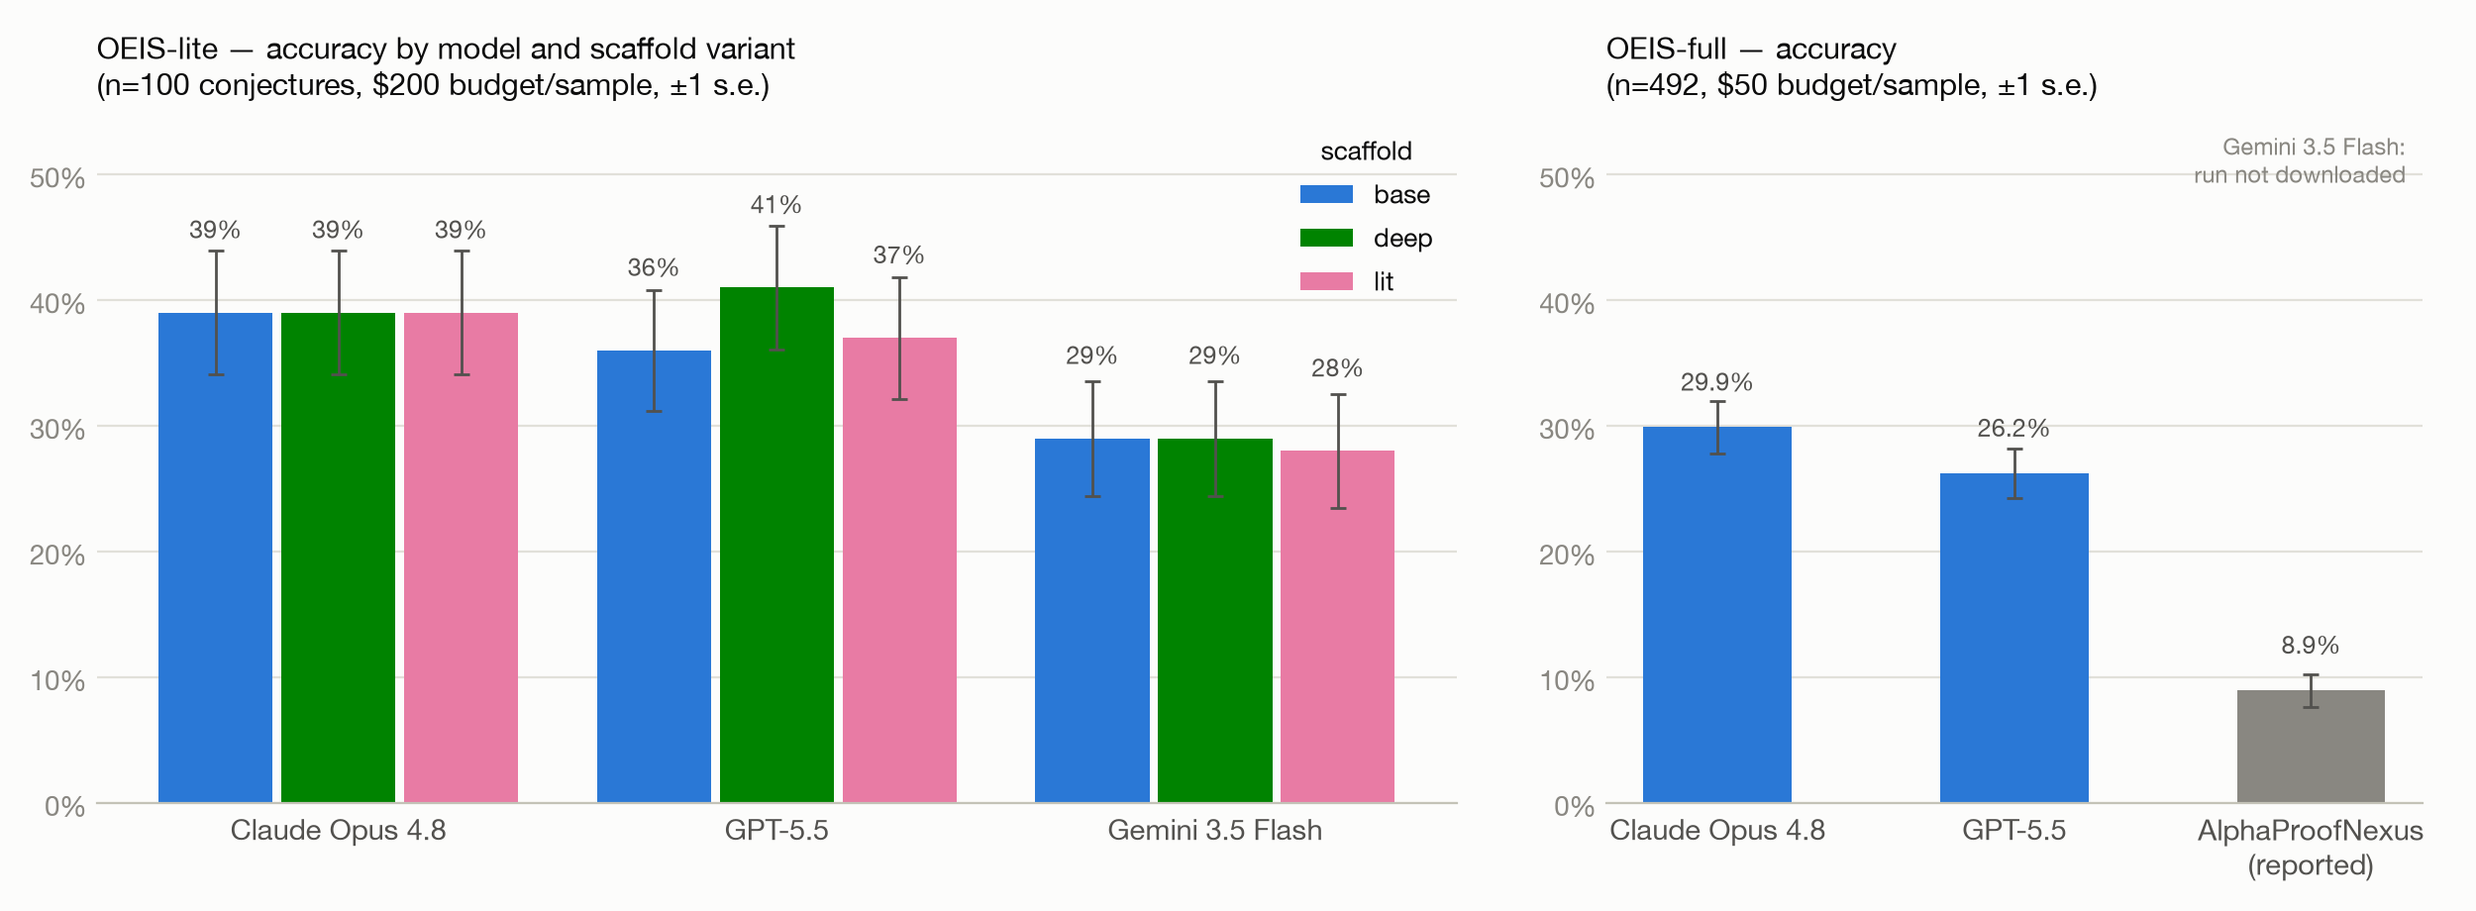
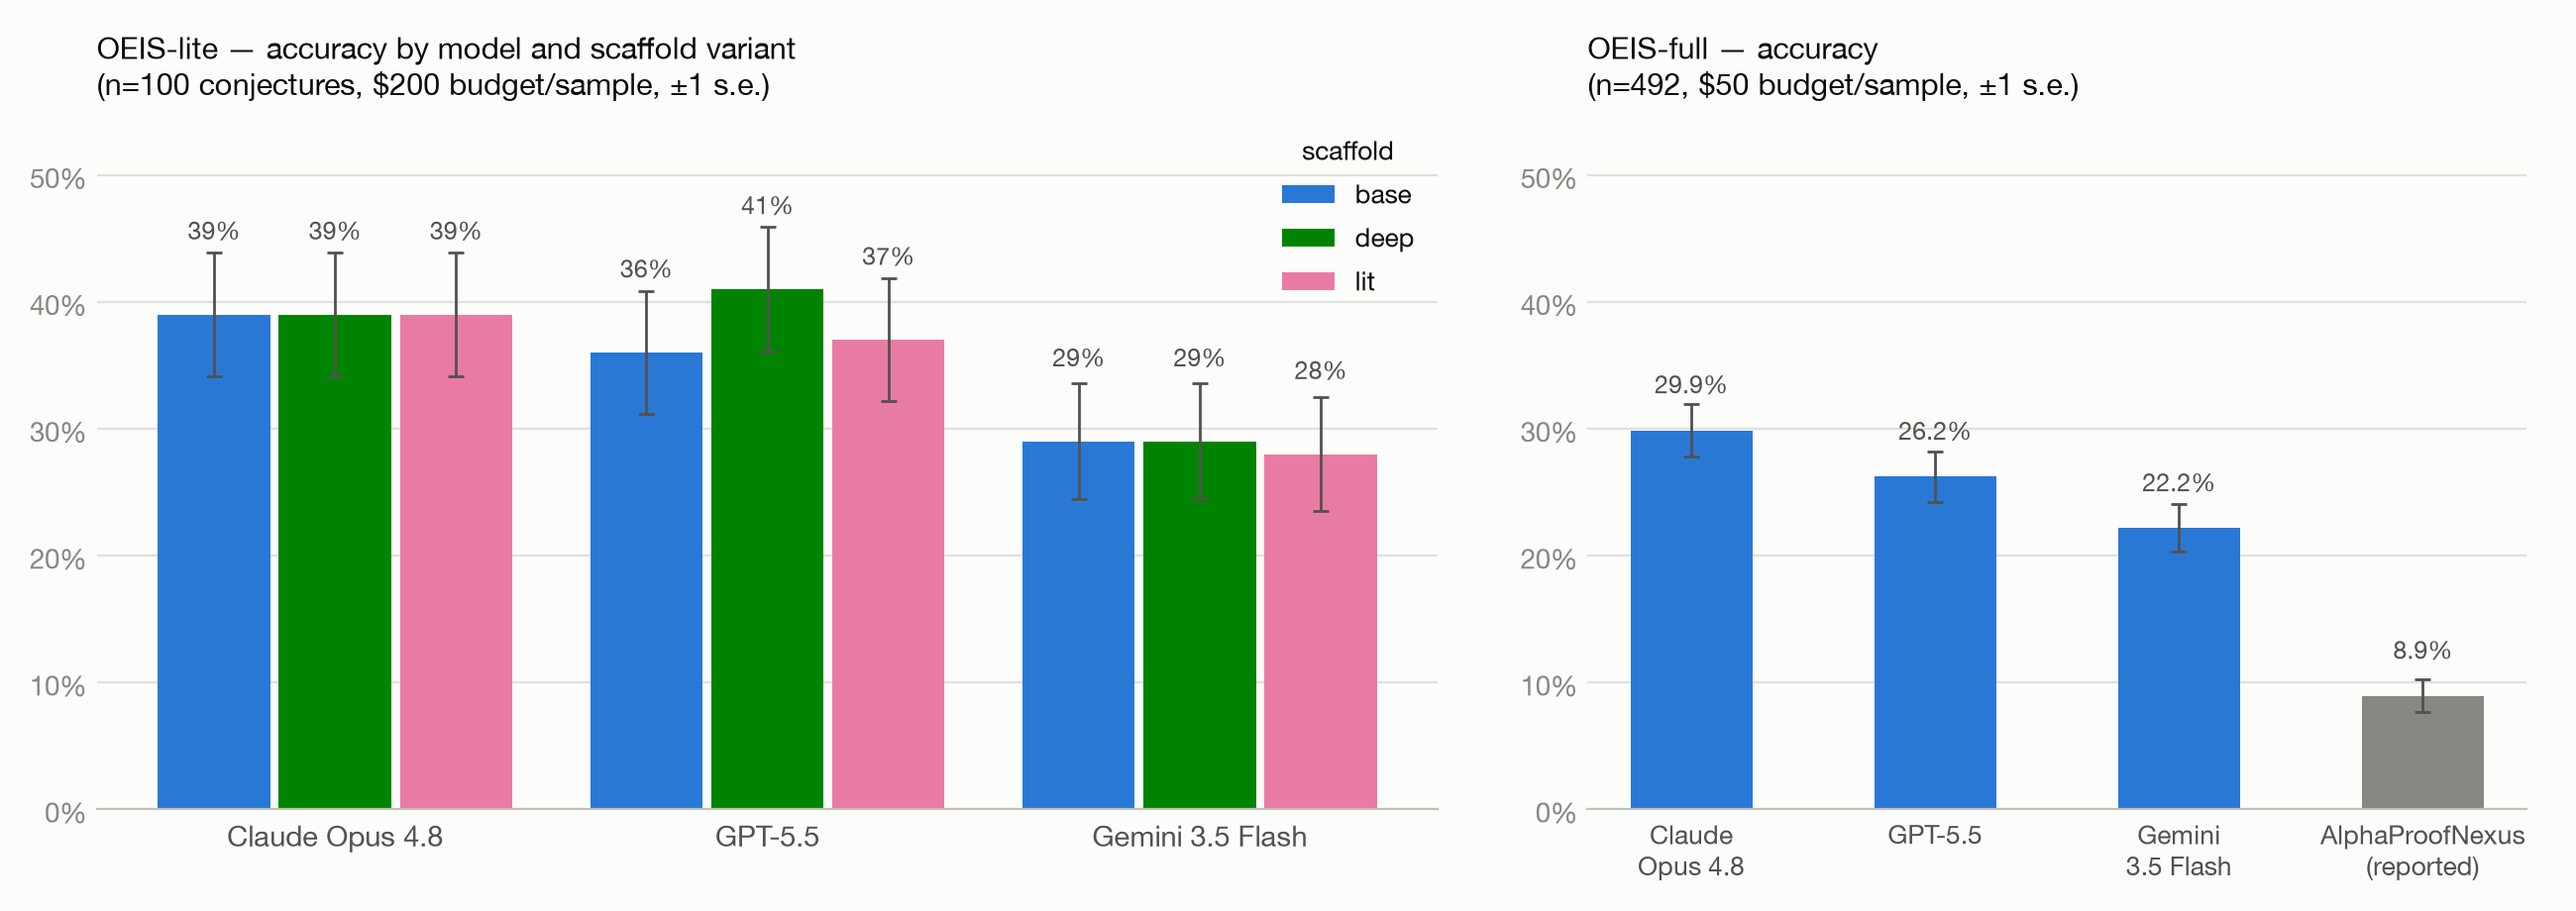
Add sample-level plots; include completed Gemini full run

diff --git a/plots/make_sample_plots.py b/plots/make_sample_plots.py
@@ -1,0 +1,269 @@
+"""Sample-level plots from per-sample scores.json / info.json in logs.
+
+Only runs with a top-level scores.json are included (a missing one means the
+download is incomplete). Rerun after new runs finish downloading.
+"""
+
+import json
+import re
+from collections import Counter, defaultdict
+from pathlib import Path
+
+import matplotlib.pyplot as plt
+from matplotlib import rcParams
+from matplotlib.patches import Rectangle
+
+LOGS = Path("logs")
+OUT = Path("plots")
+OUT.mkdir(exist_ok=True)
+
+MODEL_LABELS = {"ant": "Claude Opus 4.8", "oai": "GPT-5.5", "gdm": "Gemini 3.5 Flash"}
+PROVIDERS = ["ant", "oai", "gdm"]
+VARIANTS = ["base", "deep", "lit"]
+
+# palette (dataviz reference, light mode)
+SERIES = {"ant": "#2a78d6", "oai": "#008300", "gdm": "#e87ba4"}
+INK = "#0b0b0b"
+INK2 = "#52514e"
+MUTED = "#898781"
+GRID = "#e1e0d9"
+BASELINE = "#c3c2b7"
+SURFACE = "#fcfcfb"
+NEUTRAL = "#f0efec"
+
+rcParams.update({
+    "font.family": ["Helvetica Neue", "Arial", "DejaVu Sans"],
+    "figure.facecolor": SURFACE,
+    "axes.facecolor": SURFACE,
+    "savefig.facecolor": SURFACE,
+    "text.color": INK,
+    "axes.edgecolor": BASELINE,
+    "xtick.color": INK2,
+    "ytick.color": INK2,
+})
+
+# --- collect ---------------------------------------------------------------
+def parse(eval_set):
+    m = re.match(r"oeis-(full|lite)-(\d+)usd-(?:(deep|lit)-)?(ant|gdm|oai)-", eval_set)
+    task, budget, variant, provider = m.groups()
+    return task, int(budget), variant or "base", provider
+
+samples = defaultdict(dict)  # run key -> sample name -> record
+runs = {}                    # run key -> (task, budget, variant, provider)
+for top in sorted(LOGS.glob("*/*_plaintext/scores.json")):
+    run_dir = top.parent
+    key = parse(run_dir.parent.name)
+    (scorer,) = json.loads(top.read_text())
+    expected = scorer["scored_samples"] + scorer["unscored_samples"]
+    sample_dirs = [sd for sd in sorted(run_dir.iterdir()) if sd.is_dir()]
+    if len(sample_dirs) < expected:
+        print(f"skipping incomplete download: {run_dir.parent.name} "
+              f"({len(sample_dirs)}/{expected} samples)")
+        continue
+    runs[key] = key
+    for sd in sample_dirs:
+        sc = json.loads((sd / "scores.json").read_text())["proof_scorer"]
+        info = json.loads((sd / "info.json").read_text())
+        md = sc.get("metadata") or {}
+        modes = set()
+        report = md.get("safeverify_report") or []
+        for entry in report if isinstance(report, list) else []:
+            if not (isinstance(entry, list) and len(entry) == 2 and isinstance(entry[1], dict)):
+                continue
+            fm = entry[1].get("failureMode")
+            if isinstance(fm, dict):
+                modes.update(fm.keys())
+            elif fm is not None:
+                modes.add(str(fm))
+        samples[key][sd.name] = dict(
+            solved=sc["value"] == "C",
+            stage=md.get("stage"),
+            modes=sorted(modes),
+            cost=sum(u.get("total_cost", 0) for u in (info.get("model_usage") or {}).values()),
+            oeis_id=info.get("oeis_id") or sd.name,
+        )
+
+lite_keys = [("lite", 200, v, p) for p in PROVIDERS for v in VARIANTS if ("lite", 200, v, p) in samples]
+full_keys = [k for k in samples if k[0] == "full"]
+
+def run_label(key, multiline=False):
+    task, budget, variant, provider = key
+    sep = "\n" if multiline else " "
+    return f"{MODEL_LABELS[provider]}{sep}{variant}" if task == "lite" else f"{MODEL_LABELS[provider]}{sep}(full)"
+
+# === plot 1: solve matrix ===================================================
+lite_by_model = {p: [k for k in lite_keys if k[3] == p] for p in PROVIDERS}
+lite_samples = sorted(samples[lite_keys[0]])
+# per sample, per model: how many of the 3 agent configs solved it
+nsolved = {s: {p: sum(samples[k][s]["solved"] for k in lite_by_model[p])
+               for p in PROVIDERS} for s in lite_samples}
+ever = [s for s in lite_samples if any(nsolved[s].values())]
+never = [s for s in lite_samples if not any(nsolved[s].values())]
+ever.sort(key=lambda s: (-sum(nsolved[s].values()),
+                         tuple(-nsolved[s][p] for p in PROVIDERS)))
+
+ids = [samples[lite_keys[0]][s]["oeis_id"] for s in ever]
+counts = Counter(ids)
+seen = Counter()
+labels = []
+for s, i in zip(ever, ids):
+    seen[i] += 1
+    labels.append(i if counts[i] == 1 else f"{i} ({seen[i]})")
+
+def mix(hex_color, frac, base=NEUTRAL):
+    a = plt.matplotlib.colors.to_rgb(base)
+    b = plt.matplotlib.colors.to_rgb(hex_color)
+    return tuple(x + frac * (y - x) for x, y in zip(a, b))
+
+SHADE = {0: None, 1: 0.42, 2: 0.68, 3: 1.0}
+ncol, nrow = len(PROVIDERS), len(ever)
+fig, ax = plt.subplots(figsize=(5.2, 0.19 * nrow + 2.4))
+for r, s in enumerate(ever):
+    for c, p in enumerate(PROVIDERS):
+        n = nsolved[s][p]
+        color = NEUTRAL if n == 0 else mix(SERIES[p], SHADE[n])
+        ax.add_patch(Rectangle((c + 0.06, nrow - 1 - r + 0.06), 0.88, 0.88,
+                               facecolor=color, edgecolor="none"))
+        if 0 < n < 3:
+            ax.text(c + 0.5, nrow - 1 - r + 0.5, f"{n}/3", ha="center",
+                    va="center", fontsize=6.5, color=INK)
+ax.set_xlim(0, ncol)
+ax.set_ylim(-1.6, nrow)
+ax.set_aspect("auto")
+ax.set_yticks([nrow - 1 - r + 0.5 for r in range(nrow)])
+ax.set_yticklabels(labels, fontsize=6.8, color=INK2)
+ax.set_xticks([c + 0.5 for c in range(ncol)])
+ax.set_xticklabels([MODEL_LABELS[p].replace(" ", "\n", 1) for p in PROVIDERS],
+                   fontsize=9)
+ax.text(ncol / 2, -1.0,
+        f"+ {len(never)} of {len(lite_samples)} conjectures solved by no run",
+        ha="center", fontsize=9, color=MUTED)
+for side in ("top", "right", "left", "bottom"):
+    ax.spines[side].set_visible(False)
+ax.tick_params(length=0)
+ax.set_title(f"OEIS-lite — which conjectures each model solved\n"
+             f"({len(ever)} conjectures solved by ≥1 run; cell = how many of the\n"
+             f"3 agent configs (base/deep/lit) solved it; $200 budget/sample)",
+             fontsize=10.5, loc="left", color=INK, pad=14)
+fig.tight_layout()
+fig.savefig(OUT / "solve_matrix.png", dpi=200, bbox_inches="tight")
+print("wrote", OUT / "solve_matrix.png")
+
+# === plot 2: solved fraction vs spend ======================================
+fig, ax = plt.subplots(figsize=(8.2, 4.8))
+# full runs individually; lite runs pooled over the 3 agent configs per model
+curves = [([k], f"{MODEL_LABELS[k[3]]} (full)", "-") for k in full_keys]
+curves += [(lite_by_model[p], f"{MODEL_LABELS[p]} lite, 3-agent avg", (0, (4, 2)))
+           for p in PROVIDERS if lite_by_model[p]]
+for keys, label, style in curves:
+    n = sum(len(samples[k]) for k in keys)
+    costs = sorted(max(r["cost"], 0.01)
+                   for k in keys for r in samples[k].values() if r["solved"])
+    xs, ys = [0.4], [0.0]
+    for i, c in enumerate(costs):
+        xs += [c, c]
+        ys += [ys[-1], (i + 1) / n]
+    cap = keys[0][1]
+    xs.append(cap)
+    ys.append(ys[-1])
+    color = SERIES[keys[0][3]]
+    ax.plot(xs, ys, color=color, linestyle=style, linewidth=2,
+            label=f"{label}  (n={n}, ${cap} cap)")
+    ax.plot([cap], [ys[-1]], marker="o", ms=5, color=color)
+    ax.annotate(f"{ys[-1]:.0%}", (cap, ys[-1]), textcoords="offset points",
+                xytext=(6, -3), fontsize=9, color=INK2)
+
+ax.set_xscale("log")
+ax.set_xticks([0.5, 1, 3, 10, 30, 50, 100, 200])
+ax.set_xticklabels(["$0.50", "$1", "$3", "$10", "$30", "$50", "$100", "$200"], fontsize=9)
+ax.set_xlim(0.4, 320)
+ax.set_ylim(0, 0.45)
+ax.yaxis.set_major_formatter(lambda v, _: f"{v:.0%}")
+ax.yaxis.grid(True, color=GRID, linewidth=0.8)
+ax.set_axisbelow(True)
+for side in ("top", "right", "left"):
+    ax.spines[side].set_visible(False)
+ax.tick_params(length=0)
+for cap in {keys[0][1] for keys, _, _ in curves}:
+    ax.axvline(cap, color=GRID, linewidth=0.8, zorder=0)
+ax.set_xlabel("cost spent on sample at time of solve (log scale)", fontsize=9.5, color=INK2)
+ax.set_title("Fraction of samples solved with spend ≤ x\n"
+             "(each curve ends at its run's per-sample budget cap)",
+             fontsize=11, loc="left", color=INK)
+ax.legend(frameon=False, fontsize=9, loc="upper left")
+fig.tight_layout()
+fig.savefig(OUT / "solve_cost_curves.png", dpi=200)
+print("wrote", OUT / "solve_cost_curves.png")
+
+# === plot 3: scoring metadata for incorrect samples ========================
+# rows: lite averaged over the 3 agent configs per model, full runs as-is
+row_defs = [(lite_by_model[p], f"{MODEL_LABELS[p]} lite (3-agent avg)")
+            for p in PROVIDERS if lite_by_model[p]]
+row_defs += [([k], f"{MODEL_LABELS[k[3]]} (full)") for k in full_keys]
+
+def mean_counts(keys, extract):
+    total = Counter()
+    for k in keys:
+        total.update(extract(samples[k]))
+    return {c: v / len(keys) for c, v in total.items()}
+
+stage_counts = [mean_counts(keys, lambda recs: Counter(
+                    r["stage"] for r in recs.values() if not r["solved"]))
+                for keys, _ in row_defs]
+mode_counts = [mean_counts(keys, lambda recs: Counter(
+                    m for r in recs.values()
+                    if not r["solved"] and r["stage"] == "safeverify"
+                    for m in (r["modes"] or ["(none recorded)"])))
+               for keys, _ in row_defs]
+
+def col_order(rows):
+    totals = Counter()
+    for d in rows:
+        totals.update(d)
+    return [c for c, _ in totals.most_common()]
+
+stages = col_order(stage_counts)
+modes = col_order(mode_counts)
+
+def count_matrix(ax, cols, rows, title, xlabel):
+    nr, nc = len(rows), len(cols)
+    maxv = max(v for d in rows for v in d.values())
+    for r, d in enumerate(rows):
+        for c, col in enumerate(cols):
+            v = d.get(col, 0)
+            if v:
+                frac = (v / maxv) ** 0.4  # perceptual-ish ramp for skewed counts
+                color = plt.matplotlib.colors.to_rgb("#2a78d6")
+                bg = tuple(1 - frac * (1 - ch) for ch in color)
+                txt = f"{v:.0f}" if abs(v - round(v)) < 1e-9 else f"{v:.1f}"
+                ax.add_patch(Rectangle((c + 0.05, nr - 1 - r + 0.05), 0.9, 0.9,
+                                       facecolor=bg, edgecolor="none"))
+                ax.text(c + 0.5, nr - 1 - r + 0.5, txt, ha="center", va="center",
+                        fontsize=8, color=SURFACE if frac > 0.62 else INK)
+            else:
+                ax.add_patch(Rectangle((c + 0.05, nr - 1 - r + 0.05), 0.9, 0.9,
+                                       facecolor=NEUTRAL, edgecolor="none"))
+    ax.set_xlim(0, nc)
+    ax.set_ylim(0, nr)
+    ax.set_yticks([nr - 1 - r + 0.5 for r in range(nr)])
+    ax.set_yticklabels([label for _, label in row_defs], fontsize=8.5)
+    ax.set_xticks([c + 0.5 for c in range(nc)])
+    ax.set_xticklabels(cols, fontsize=8, rotation=35, ha="right")
+    for side in ("top", "right", "left", "bottom"):
+        ax.spines[side].set_visible(False)
+    ax.tick_params(length=0)
+    ax.set_title(title, fontsize=10.5, loc="left", color=INK)
+    ax.set_xlabel(xlabel, fontsize=9, color=INK2)
+
+fig, (axa, axb) = plt.subplots(1, 2, figsize=(13.5, 0.42 * len(row_defs) + 2.6),
+                               gridspec_kw={"width_ratios": [len(stages), len(modes) + 1.5]})
+count_matrix(axa, stages, stage_counts,
+             "Incorrect samples by scorer stage\n(lite rows: mean count over base/deep/lit runs)",
+             "stage (scores.json metadata)")
+count_matrix(axb, modes, mode_counts,
+             'Stage "safeverify" failures by failureMode key\n'
+             "(a sample can record several; each counted once)",
+             "failureMode key (safeverify_report)")
+fig.tight_layout(w_pad=3)
+fig.savefig(OUT / "failure_stages.png", dpi=200, bbox_inches="tight")
+print("wrote", OUT / "failure_stages.png")

diff --git a/plots/make_plots.py b/plots/make_plots.py
@@ -64,7 +64,7 @@ def style_axis(ax, ymax=0.55):
     ax.yaxis.set_major_formatter(lambda v, _: f"{v:.0%}")
 
 fig, (ax1, ax2) = plt.subplots(
-    1, 2, figsize=(12.5, 4.6), gridspec_kw={"width_ratios": [3, 1.8]}
+    1, 2, figsize=(13, 4.6), gridspec_kw={"width_ratios": [3, 2.1]}
 )
 
 # --- panel 1: lite, model x variant ----------------------------------------
@@ -97,7 +97,7 @@ ax1.legend(title="scaffold", frameon=False, fontsize=9.5, title_fontsize=9.5,
 full_provs = [p for p in providers if ("full", "base", p) in table]
 ys = [table[("full", "base", p)][0] for p in full_provs]
 errs = [table[("full", "base", p)][1] for p in full_provs]
-labels = [MODEL_LABELS[p] for p in full_provs]
+labels = [MODEL_LABELS[p].replace(" ", "\n", 1) for p in full_provs]
 colors = ["#2a78d6"] * len(full_provs)
 
 # External reported baseline: AlphaProofNexus, 44/492 solved
@@ -115,7 +115,7 @@ for x, y in zip(xs, ys):
     ax2.text(x, y + 0.025, f"{y:.1%}", ha="center", va="bottom",
              fontsize=9, color=INK2)
 ax2.set_xticks(list(xs))
-ax2.set_xticklabels(labels, fontsize=10.5)
+ax2.set_xticklabels(labels, fontsize=9.5)
 style_axis(ax2)
 n_full = table[("full", "base", full_provs[0])][2]
 ax2.set_title(f"OEIS-full — accuracy\n(n={n_full}, $50 budget/sample, ±1 s.e.)",
